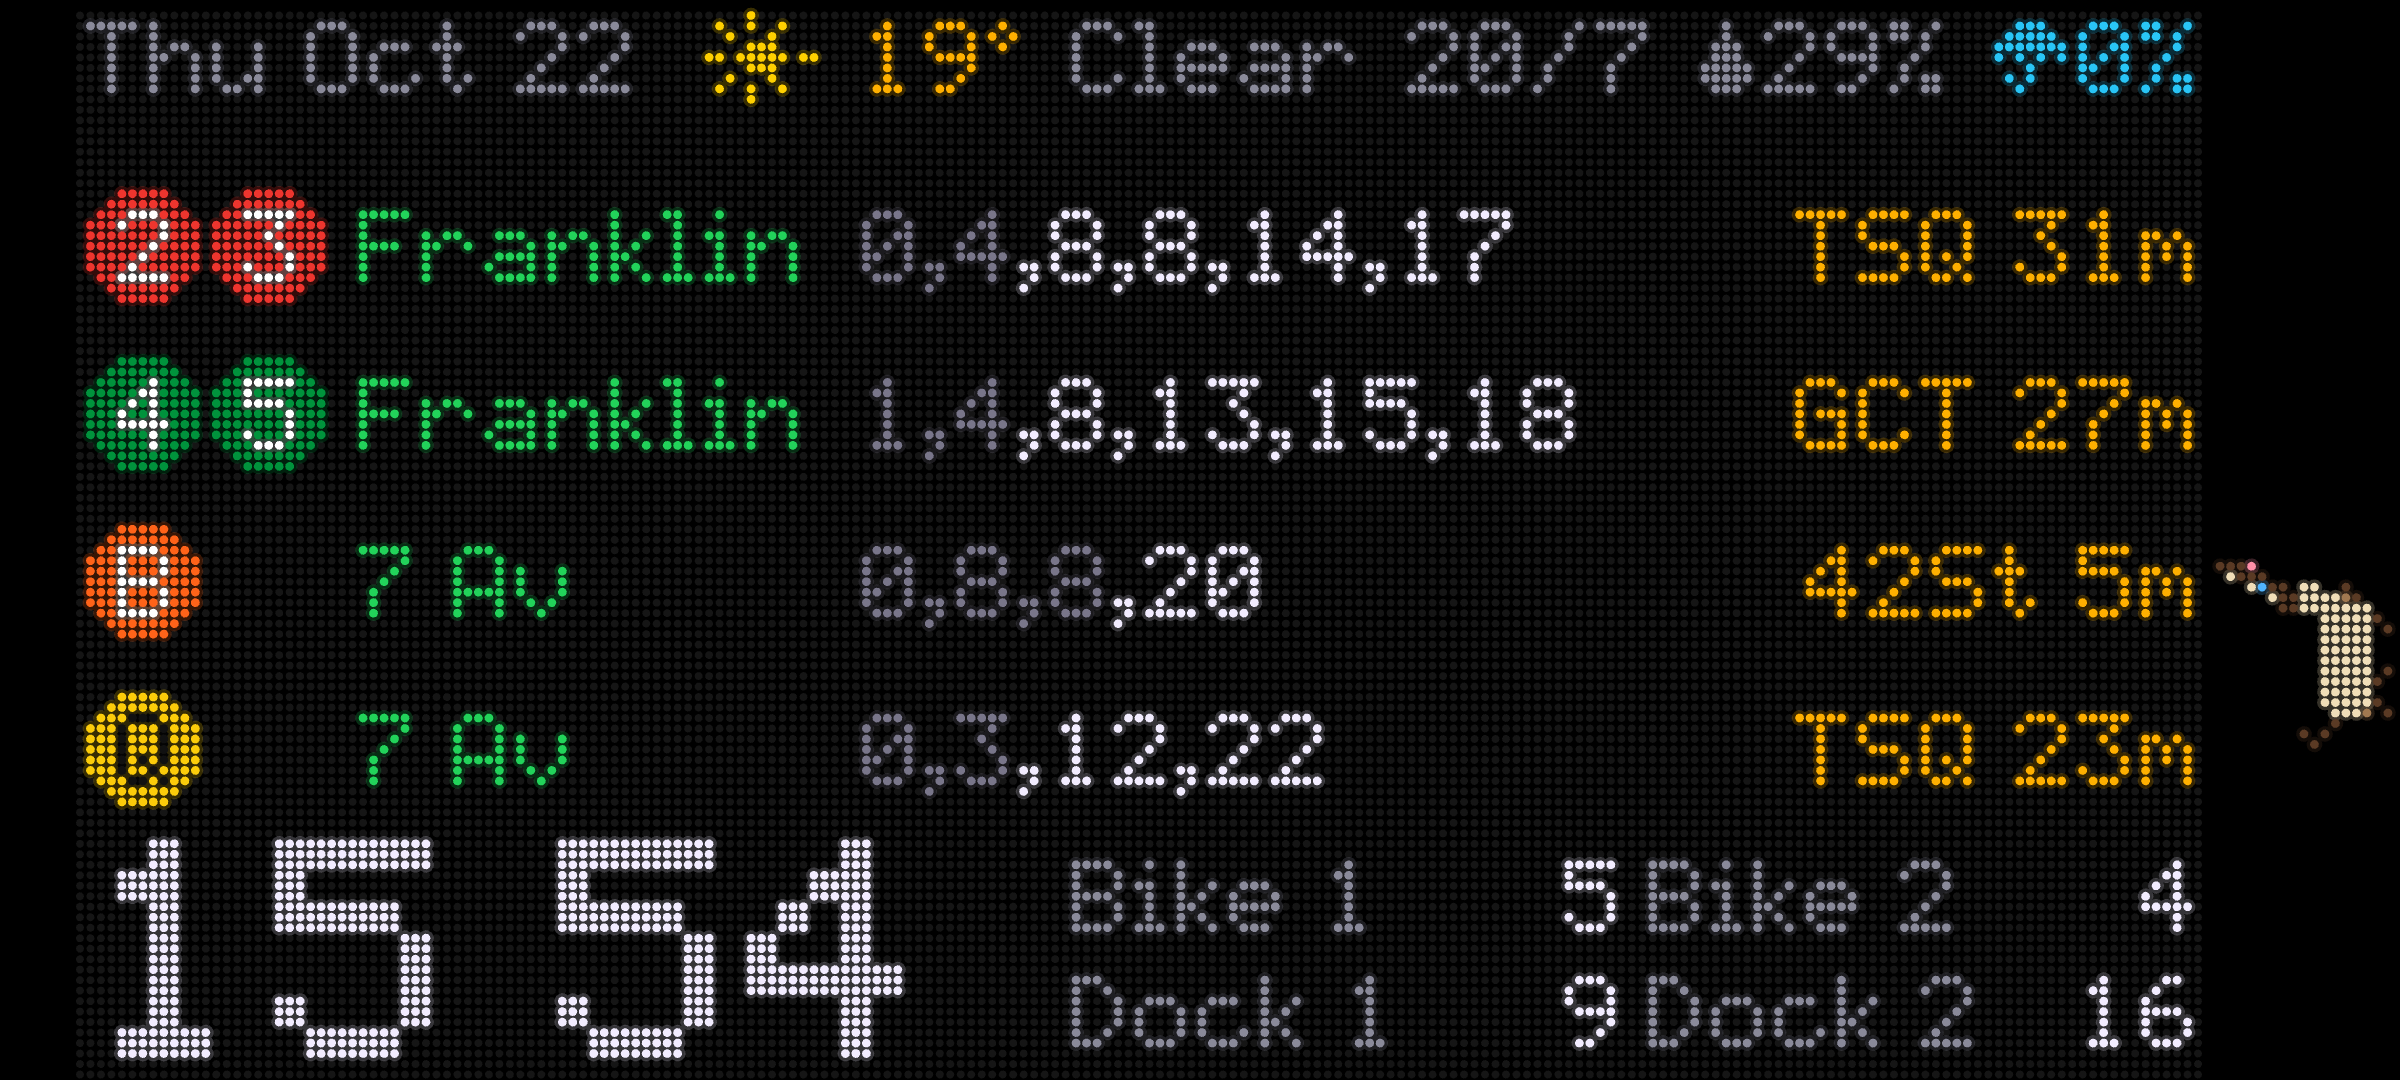
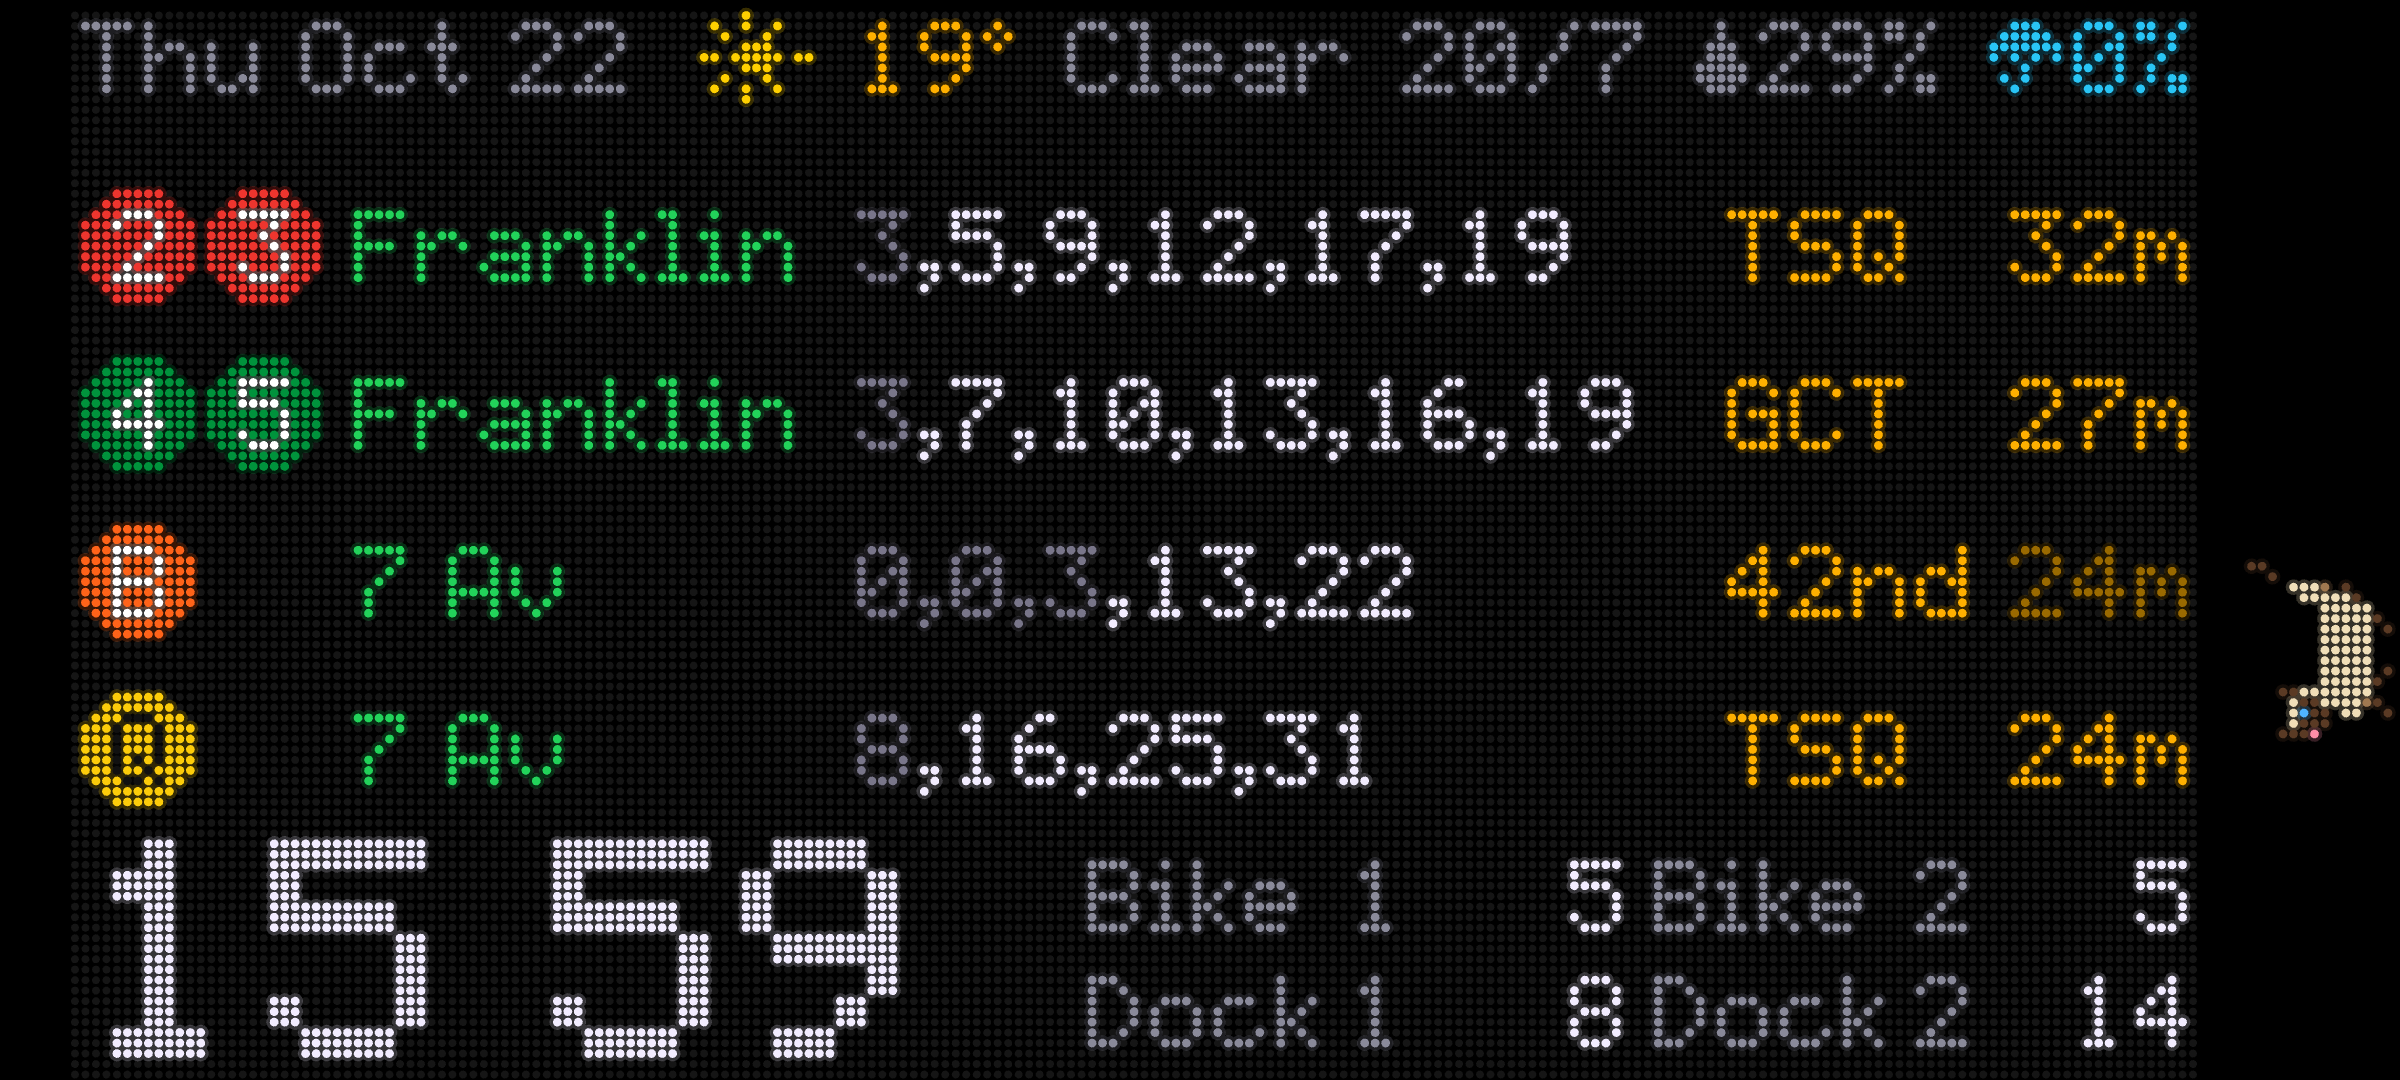
Latest phone screenshot; stagger demo trains so merged rows don't repeat a minute

diff --git a/board/demo-data.js b/board/demo-data.js
@@ -1,9 +1,10 @@
 // Demo mode for the static page: answers the board's /api/data request with made-up but
 // plausible data (same stations as the real board), so the real app.js runs unchanged.
 (function () {
-  // route -> [headway min, offset min, usual minutes to the target stop]
+  // route -> [headway min, offset min, usual minutes to the target stop]. Lines sharing a row
+  // run at the same headway, half a cycle apart, so their merged times never coincide.
   var LINES = {
-    2: [9, 1, 31], 3: [11, 5, 31], 4: [7, 2, 27], 5: [10, 6, 27], B: [12, 3, 24], Q: [8, 0, 23],
+    2: [10, 1, 31], 3: [10, 6, 31], 4: [8, 2, 27], 5: [8, 6, 27], B: [12, 3, 24], Q: [8, 0, 23],
   };
   function arrivals(route, nowSec) {
     var l = LINES[route], h = l[0] * 60, o = l[1] * 60, out = [];
